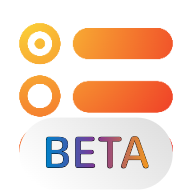
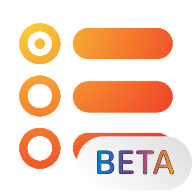
Fixe SVG beta overlay

Changed region(s): [[0.0938, 0.5938, 1.0, 0.9375]]

diff --git a/pages/Favicon_Maker/script.js b/pages/Favicon_Maker/script.js
@@ -781,14 +781,17 @@ document.addEventListener('DOMContentLoaded', () => {
             }
 
             // Calculate Overlay position/size
-            const canvasSize = Math.max(width, height);
+            // Use Math.min for consistent behavior with PNG generation (convertToSquare)
+            // This ensures the overlay scales properly relative to the smaller dimension
+            const canvasSize = Math.min(width, height);
             const overlayScale = settings.size / 100;
             const overlayW = canvasSize * overlayScale * 2;
-            const overlayH = overlayW * (427 / 911);
+            const overlayH = overlayW * (427 / 911); // Maintain aspect ratio from SVG viewbox
 
             // Position relative to minX/minY (ViewBox origin)
-            const posX = minX + (settings.x / 100) * canvasSize - (overlayW / 2);
-            const posY = minY + (settings.y / 100) * canvasSize - (overlayH / 2);
+            // Use width/height for positioning to map 0-100% correctly across the full canvas
+            const posX = minX + (settings.x / 100) * width - (overlayW / 2);
+            const posY = minY + (settings.y / 100) * height - (overlayH / 2);
 
             const overlaySrc = (settings.type === 'colour') ? BETA_COLOUR_SVG : BETA_GRAYSCALE_SVG;
 
